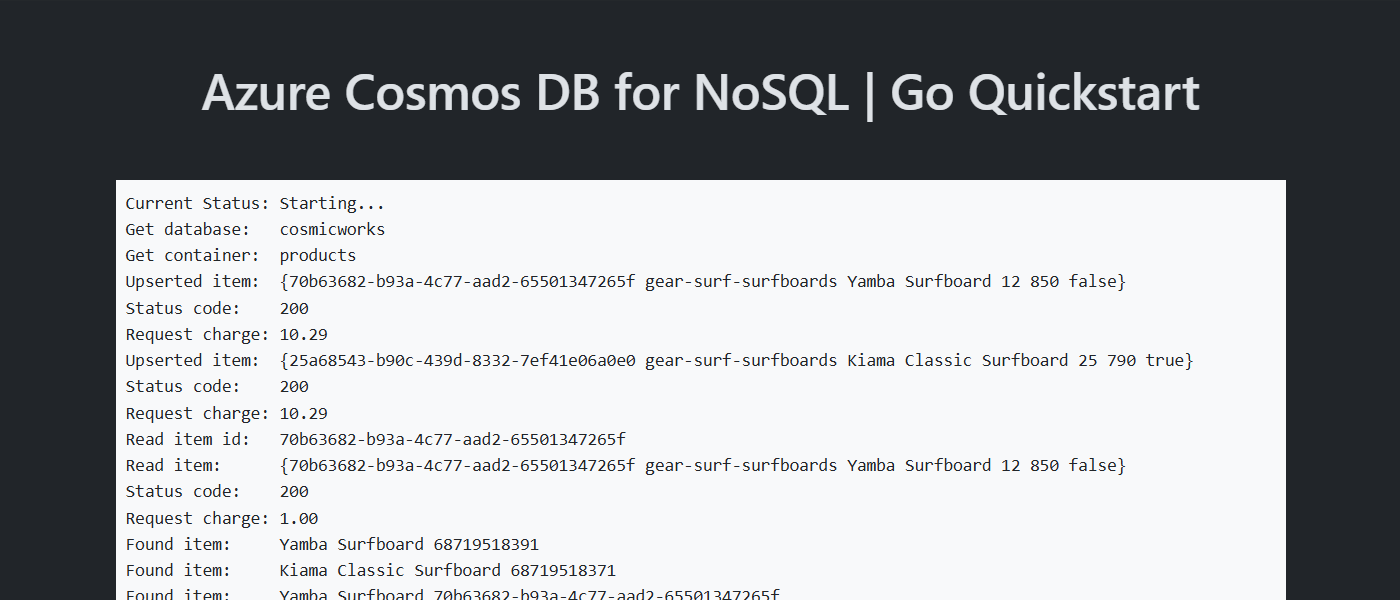
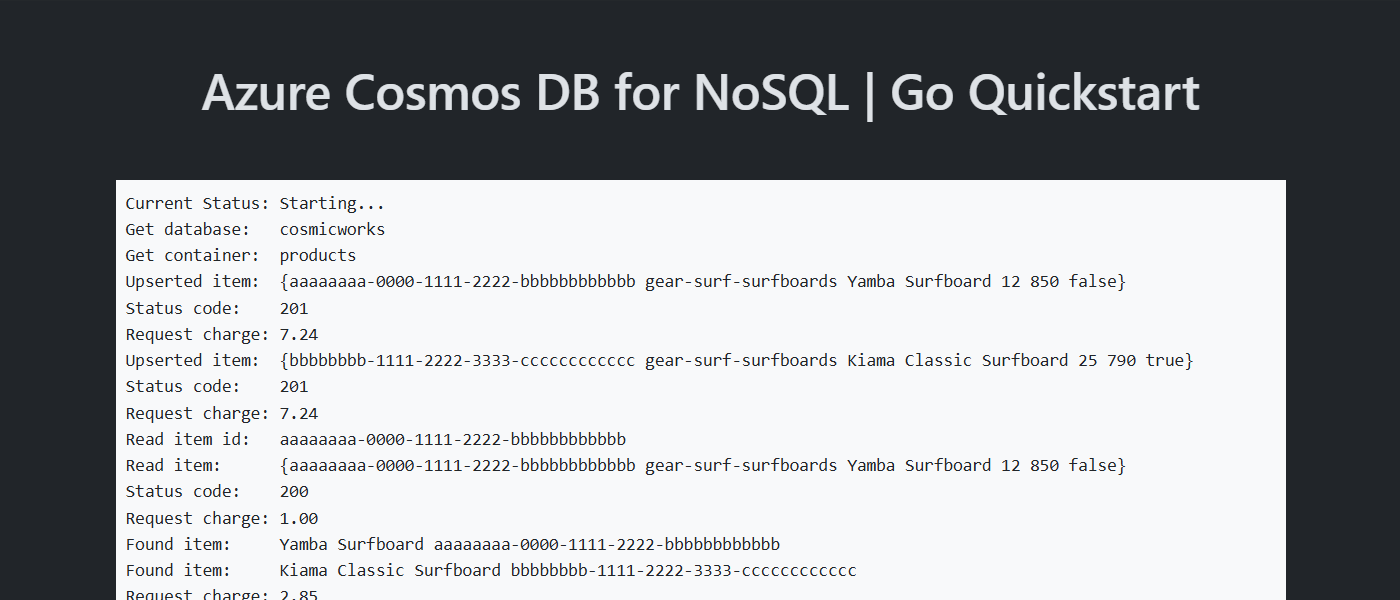
Update GUIDs

diff --git a/src/static/index.html b/src/static/index.html
@@ -22,7 +22,7 @@
                     <i class="bi bi-arrow-clockwise me-2"></i>
                     Run
                 </button>
-                <a href="https://learn.microsoft.com/azure/cosmos-db/nosql/quickstart-java#walk-through-the-java-library-code"
+                <a href="https://learn.microsoft.com/azure/cosmos-db/nosql/quickstart-go#code-examples"
                     class="list-group-item list-group-item-action" target="_blank">
                     <i class="bi bi-book me-2"></i>
                     Walk through the code for this sample application

diff --git a/src/cosmos.go b/src/cosmos.go
@@ -71,7 +71,7 @@ func startCosmos(writeOutput func(msg string)) error {
 
 	{
 		item := Item{
-			Id:        "70b63682-b93a-4c77-aad2-65501347265f",
+			Id:        "aaaaaaaa-0000-1111-2222-bbbbbbbbbbbb",
 			Category:  "gear-surf-surfboards",
 			Name:      "Yamba Surfboard",
 			Quantity:  12,
@@ -107,7 +107,7 @@ func startCosmos(writeOutput func(msg string)) error {
 
 	{
 		item := Item{
-			Id:        "25a68543-b90c-439d-8332-7ef41e06a0e0",
+			Id:        "bbbbbbbb-1111-2222-3333-cccccccccccc",
 			Category:  "gear-surf-surfboards",
 			Name:      "Kiama Classic Surfboard",
 			Quantity:  25,
@@ -147,7 +147,7 @@ func startCosmos(writeOutput func(msg string)) error {
 
 		context := context.TODO()
 
-		itemId := "70b63682-b93a-4c77-aad2-65501347265f"
+		itemId := "aaaaaaaa-0000-1111-2222-bbbbbbbbbbbb"
 
 		response, err := container.ReadItem(context, partitionKey, itemId, nil)
 		if err != nil {
